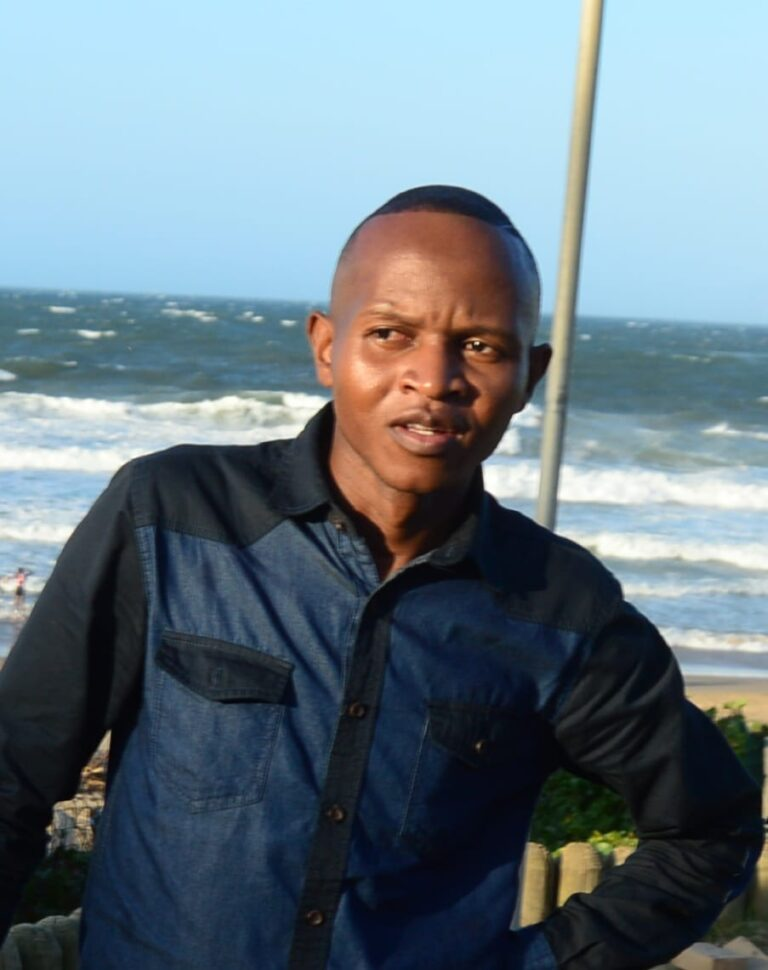
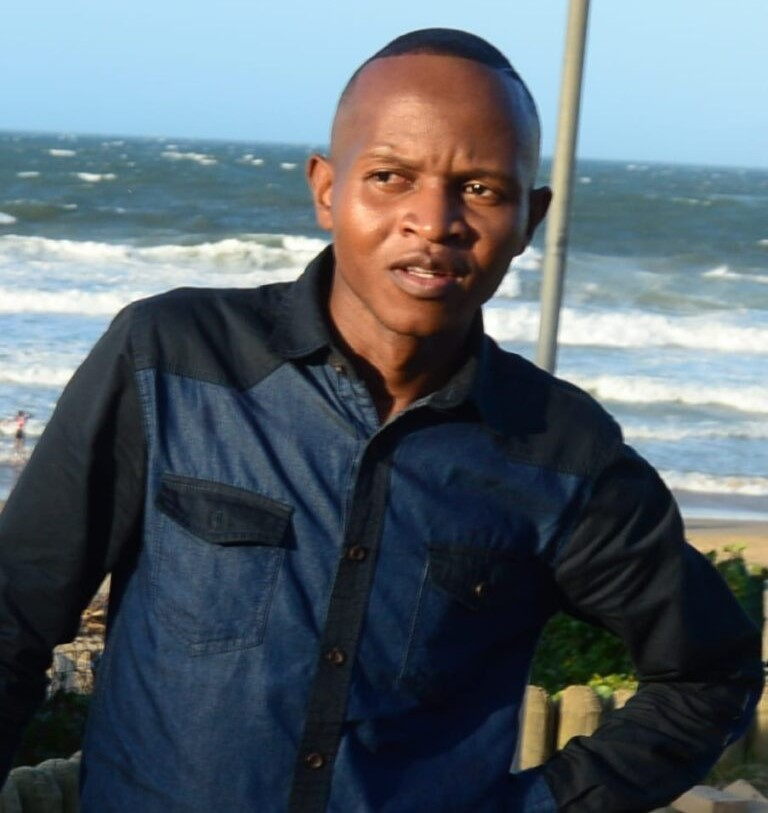
feat: implement Academics, Contact, and Teachers pages with associated teacher images.

diff --git a/src/pages/AcademicsPage.tsx b/src/pages/AcademicsPage.tsx
@@ -16,7 +16,7 @@ const AcademicsPage: React.FC = () => {
           <h6 className="text-lg font-medium text-[#26262c] mb-2">Our Curriculum Overview</h6>
           <h2 className="text-3xl md:text-4xl font-bold text-[#26262c] mb-6">A Commitment to Excellence</h2>
           <div className="w-16 h-1 bg-[#4747d7] mb-8"></div>
-          
+
           <div className="grid grid-cols-1 md:grid-cols-2 gap-8">
             <div>
               <p className="text-[#76767f]">
@@ -41,9 +41,9 @@ const AcademicsPage: React.FC = () => {
             <div className="bg-white rounded-lg shadow-md overflow-hidden">
               <div className="w-full h-48 flex items-center justify-center overflow-hidden">
                 <img
-                  src="https://sacredheartoakford.co.za/wp-content/uploads/2024/07/MobileLab-gigapixel-standard-scale-4_00x-2048x1002.jpg"
+                  src="images/homepage/science.jpg"
                   alt="Science Department"
-                  className="w-full h-full object-cover"
+                  className="w-full h-full object-cover object-top"
                 />
               </div>
               <div className="p-6">
@@ -77,7 +77,7 @@ const AcademicsPage: React.FC = () => {
                 <img
                   src="https://sacredheartoakford.co.za/wp-content/uploads/2024/05/20240528_082309-scaled.jpg"
                   alt="Computer Application Technology"
-                  className="w-full h-full object-cover"
+                  className="w-full h-full object-cover object-top"
                 />
               </div>
               <div className="p-6">
@@ -94,7 +94,7 @@ const AcademicsPage: React.FC = () => {
                 <img
                   src="https://sacredheartoakford.co.za/wp-content/uploads/2024/07/20240722_110832-scaled.jpg"
                   alt="Accounting"
-                  className="w-full h-full object-cover"
+                  className="w-full h-full object-cover object-top"
                 />
               </div>
               <div className="p-6">
@@ -111,7 +111,7 @@ const AcademicsPage: React.FC = () => {
                 <img
                   src="https://sacredheartoakford.co.za/wp-content/uploads/2024/05/school-template-curriculum-img-3.jpg"
                   alt="Humanities"
-                  className="w-full h-full object-cover"
+                  className="w-full h-full object-cover object-top"
                 />
               </div>
               <div className="p-6">
@@ -128,7 +128,7 @@ const AcademicsPage: React.FC = () => {
                 <img
                   src="https://sacredheartoakford.co.za/wp-content/uploads/2024/07/20240722_110739-scaled.jpg"
                   alt="Business Studies"
-                  className="w-full h-full object-cover"
+                  className="w-full h-full object-cover object-top"
                 />
               </div>
               <div className="p-6">
@@ -145,7 +145,7 @@ const AcademicsPage: React.FC = () => {
                 <img
                   src="https://sacredheartoakford.co.za/wp-content/uploads/2024/05/shutterstock_1289254792.jpg"
                   alt="Agricultural Science"
-                  className="w-full h-full object-cover"
+                  className="w-full h-full object-cover object-top"
                 />
               </div>
               <div className="p-6">
@@ -156,13 +156,30 @@ const AcademicsPage: React.FC = () => {
               </div>
             </div>
 
+            {/* Drama Program */}
+            <div className="bg-white rounded-lg shadow-md overflow-hidden">
+              <div className="w-full h-48 flex items-center justify-center overflow-hidden">
+                <img
+                  src="/images/activities/main.jpg"
+                  alt="Drama Program"
+                  className="w-full h-full object-cover object-top"
+                />
+              </div>
+              <div className="p-6">
+                <h3 className="text-xl font-bold text-[#26262c] mb-3">Drama and Music</h3>
+                <p className="text-[#76767f]">
+                  At Sacred Heart Secondary School, we believe in the power of the art to inspire.
+                </p>
+              </div>
+            </div>
+
             {/* Electrical Engineering (up coming) */}
             <div className="bg-white rounded-lg shadow-md overflow-hidden">
               <div className="w-full h-48 flex items-center justify-center overflow-hidden">
                 <img
                   src="https://sacredheartoakford.co.za/wp-content/uploads/2024/05/ElectricalEngineering_1000x750.jpg"
                   alt="Electrical Engineering"
-                  className="w-full h-full object-cover"
+                  className="w-full h-full object-cover object-top"
                 />
               </div>
               <div className="p-6">
@@ -173,22 +190,7 @@ const AcademicsPage: React.FC = () => {
               </div>
             </div>
 
-            {/* Drama Program (up coming) */}
-            <div className="bg-white rounded-lg shadow-md overflow-hidden">
-              <div className="w-full h-48 flex items-center justify-center overflow-hidden">
-                <img
-                  src="https://sacredheartoakford.co.za/wp-content/uploads/2024/05/ElectricalEngineering_1000x750.jpg"
-                  alt="Drama Program"
-                  className="w-full h-full object-cover"
-                />
-              </div>
-              <div className="p-6">
-                <h3 className="text-xl font-bold text-[#26262c] mb-3">Welcome to SHSS Drama Program! (up coming)</h3>
-                <p className="text-[#76767f]">
-                  At Sacred Heart Secondary School, we believe in the power of the art to inspire.
-                </p>
-              </div>
-            </div>
+
           </div>
         </div>
       </section>

diff --git a/src/pages/TeachersPage.tsx b/src/pages/TeachersPage.tsx
@@ -35,7 +35,7 @@ const TeachersPage = () => {
   const teachers = [
     { id: 1, name: 'Mr NA Khumalo', subject: 'CAT', photo: 'khumalo' },
     { id: 2, name: 'Miss T Mngadi', subject: 'Mathematics', photo: 'mngadi' },
-    { id: 3, name: 'Mr S Niehaus', subject: 'Geography', photo: 'niehaus' },
+    { id: 3, name: 'Ms NS Ndlovu', subject: 'Life Sciences', photo: 'ns_ndlovu' },
     { id: 4, name: 'Miss NP Luthuli', subject: 'Physical Science', photo: 'luthuli' },
     { id: 5, name: 'Miss T Mazibuko', subject: 'Tourism', photo: 'mazibuko' },
     { id: 6, name: 'Miss TL Mvubu', subject: 'IsiZulu', photo: 'mvubu' },
@@ -112,7 +112,7 @@ const TeachersPage = () => {
               <div className="relative group">
                 <div className="absolute -inset-4 bg-gradient-to-r from-blue-100 to-indigo-100 rounded-2xl transform rotate-3 transition-transform group-hover:rotate-2"></div>
                 <div className="relative h-[400px] w-full rounded-2xl overflow-hidden shadow-xl bg-white">
-                  <ProfileImage src="images/teachers/goba.jpg" alt="Mrs. NS Goba" className="w-full h-full object-cover" />
+                  <ProfileImage src="images/teachers/goba.jpg" alt="Mrs. NS Goba" className="w-full h-full object-cover object-top" />
                 </div>
               </div>
             </div>
@@ -127,7 +127,7 @@ const TeachersPage = () => {
             <div className="relative group">
               <div className="absolute -inset-4 bg-gradient-to-l from-blue-100 to-indigo-100 rounded-2xl transform -rotate-2 transition-transform group-hover:-rotate-1"></div>
               <div className="relative h-[400px] w-full rounded-2xl overflow-hidden shadow-xl bg-white">
-                <ProfileImage src="images/teachers/mtshali.jpg" alt="Miss. NC Mtshali" className="w-full h-full object-cover" />
+                <ProfileImage src="images/teachers/mtshali.jpg" alt="Miss. NC Mtshali" className="w-full h-full object-cover object-top" />
               </div>
             </div>
             <div>
@@ -167,7 +167,7 @@ const TeachersPage = () => {
               <div className="relative group">
                 <div className="absolute -inset-4 bg-gradient-to-r from-indigo-100 to-blue-100 rounded-2xl transform rotate-2 transition-transform group-hover:rotate-1"></div>
                 <div className="relative h-[400px] w-full rounded-2xl overflow-hidden shadow-xl bg-white">
-                  <ProfileImage src="images/teachers/mkhize.jpg" alt="Mr. SMN Mkhize" className="w-full h-full object-cover" />
+                  <ProfileImage src="images/teachers/mkhize.jpg" alt="Mr. SMN Mkhize" className="w-full h-full object-cover object-top" />
                 </div>
               </div>
             </div>
@@ -182,7 +182,7 @@ const TeachersPage = () => {
             <div className="relative group">
               <div className="absolute -inset-4 bg-gradient-to-l from-blue-100 to-indigo-100 rounded-2xl transform -rotate-3 transition-transform group-hover:-rotate-2"></div>
               <div className="relative h-[400px] w-full rounded-2xl overflow-hidden shadow-xl bg-white">
-                <ProfileImage src="images/teachers/vambe.jpg" alt="Mr. Vambe" className="w-full h-full object-cover" />
+                <ProfileImage src="images/teachers/vambe.jpg" alt="Mr. Vambe" className="w-full h-full object-cover object-top" />
               </div>
             </div>
             <div>
@@ -224,7 +224,7 @@ const TeachersPage = () => {
                   <ProfileImage
                     src={`images/teachers/${teacher.photo}.jpg`}
                     alt={teacher.name}
-                    className="w-full h-full object-cover transform group-hover:scale-105 transition-transform duration-500"
+                    className="w-full h-full object-cover object-top transform group-hover:scale-105 transition-transform duration-500"
                   />
                   <div className="absolute inset-0 bg-gradient-to-t from-black/60 to-transparent opacity-0 group-hover:opacity-100 transition-opacity duration-300 flex items-end p-4">
                     <p className="text-white text-sm font-medium">View Profile</p>

diff --git a/src/pages/ContactPage.tsx b/src/pages/ContactPage.tsx
@@ -6,7 +6,7 @@ const ContactPage: React.FC = () => {
     <div className="py-12 bg-[#f6f7fd] min-h-screen">
       <div className="w-[80%] mx-auto">
         <h1 className="text-3xl font-bold text-[#26262c] mb-8">Contact Us</h1>
-        
+
         <div className="grid grid-cols-1 lg:grid-cols-2 gap-12">
           <div>
             <div className="bg-white rounded-xl shadow-lg p-6 mb-8">
@@ -16,34 +16,40 @@ const ContactPage: React.FC = () => {
                   <MapPin className="w-6 h-6 text-[#4747d7] mt-1 mr-4" />
                   <div>
                     <h3 className="font-semibold text-[#26262c]">Address</h3>
-                    <p className="text-[#76767f]">123 Education Lane, Sacred Heart, SA</p>
+                    <p className="text-[#76767f]">Oakford Sacred Heart Secondary School,Osindisweni, Iqadi, 4340</p>
                   </div>
                 </div>
                 <div className="flex items-start">
                   <Phone className="w-6 h-6 text-[#4747d7] mt-1 mr-4" />
                   <div>
                     <h3 className="font-semibold text-[#26262c]">Phone</h3>
-                    <p className="text-[#76767f]">+27 (0)11 234 5678</p>
+                    <p className="text-[#76767f]">+27 - 78 629 9152</p>
                   </div>
                 </div>
                 <div className="flex items-start">
                   <Mail className="w-6 h-6 text-[#4747d7] mt-1 mr-4" />
                   <div>
                     <h3 className="font-semibold text-[#26262c]">Email</h3>
-                    <p className="text-[#76767f]">info@sacredheart.edu.za</p>
+                    <p className="text-[#76767f]">sacredhearthostel01@gmail.com</p>
                   </div>
                 </div>
               </div>
-              
-              <div className="mt-8 bg-gray-200 border-2 border-dashed rounded-xl w-full h-64 flex items-center justify-center">
-                <div className="text-center">
-                  <div className="text-lg font-medium text-gray-700 mb-2">School Location</div>
-                  <p className="text-gray-600">Google Map Placeholder</p>
-                </div>
+
+              <div className="mt-8 rounded-xl overflow-hidden shadow-md h-64 w-full">
+                <iframe
+                  src="https://www.google.com/maps/embed?pb=!1m18!1m12!1m3!1d3468.9267126630275!2d31.011114581955876!3d-29.60581664697598!2m3!1f0!2f0!3f0!3m2!1i1024!2i768!4f13.1!3m3!1m2!1s0x1ef71b003b7a062f%3A0x3f1f38839e2173c1!2sOakford%20Sacred%20Heart%20Secondary%20School!5e0!3m2!1sen!2sza!4v1764951514257!5m2!1sen!2sza"
+                  width="100%"
+                  height="100%"
+                  style={{ border: 0 }}
+                  allowFullScreen
+                  loading="lazy"
+                  referrerPolicy="no-referrer-when-downgrade"
+                  title="School Location"
+                ></iframe>
               </div>
             </div>
           </div>
-          
+
           <div>
             <div className="bg-white rounded-xl shadow-lg p-6">
               <h2 className="text-2xl font-semibold text-[#26262c] mb-6">Get in Touch</h2>
